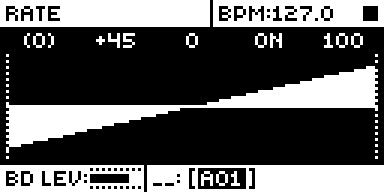
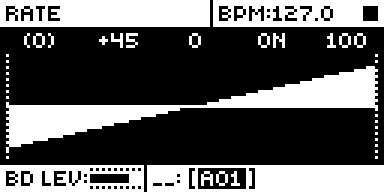
Improved SMPL 0.5.1: the sample preview plays at 1x again (#1591)
Stock's sample preview plays on the active track's voice with SMP in its
own slot 129 and FIN at rest; 0.5.0 read FIN at rest as RATE 0 and
stopped the voice. A voice whose SMP slot is 128 or above with FIN at
rest now plays at 1x. Reproduced and checked in rytm-emu; screenshots
retaken from this version.

diff --git a/sdk/analog-rytm-mkii/modules/sample-rate/TESTING.md b/sdk/analog-rytm-mkii/modules/sample-rate/TESTING.md
@@ -29,6 +29,17 @@ Everything below was observed in rytm-emu on the named build. Nothing has run on
 - A core-only image, same stock and core, for comparison.
 - Emulator: rytm-emu `c5732f0`, headless `dtboot`, JIT on. One generated sample, RAMP, 23,777 frames (odd, so STA and END fall on no round multiple), on BD with LOP ON. Audio is dtboot's `--wav`. Voice words are read with `DTBOOT_PEEK`: step at rec + 12, position at rec + 4, effective FIN at 0x8000f7cc. A click means a sample-to-sample step over 40, or six times the median, on a ramp whose normal step is below 2; each run also flags the trig's own attack, which is not counted.
 
+## 0.5.1: the sample preview plays at 1x (2026-11-16, issue #1591)
+
+rytm-emu, headless `dtboot`; emulator results are not hardware evidence.
+
+- Source (0.5.1-experimental): fingerprint `f1d4ef34…999e` (`evidence.sourceSha256`). Build SO01 (Modwerk base `3ece243b` + 0.5.0, the reproduction): `.syx` `7a9ca3fd…09e4`. Build SF01 (the same base + this source): ramSpare 91728. Build SV11 (vendored core-ar2 0.7 + this source, for the screenshots): `.syx` `bc153560…1035`. Stock OS 1.74 and the author's combo RC40 (`5d5241e0`, 0.5.0) for comparison.
+- Cause, read in stock's code: the sample preview (0x400a0dac, called from 0x400a5236 and 0x400e742e) fills a parameter override table that puts SMP in slot 129 and TUN and FIN at rest (0x4000) on the active track; 0.5.0 read FIN at rest as RATE 0 and scaled the step to 0.
+- Reproduction (rytm-emu-ramboot build, the card's RAMP in GLOBAL > SAMPLES > incoming, BD active, its sound saved by stock with FIN +0, FUNC held and YES): stock: voice 0's step went from 0x02000000 to 0x08000000 and its position advanced 0xdf a 100 M instructions; row FIN 0x4000, SMP 0x81. RC40 and SO01: step 0, position frozen, the preview silent. SF01: step 0x08000000 and the position advanced as on stock.
+- Normal play unchanged: RAMP in project slot 1 on BD, RATE set by CC 25 to 100 and then 64, BD pressed each time: SO01 and SF01 gave identical step, FIN and SMP words at every 100 M (playing at 100, stopped at 64).
+- Screenshots retaken on SV11 with 0.5.0's plans: the same screens, apart from where the playhead stood.
+- Not run: a Sound previewed from the SOUND BROWSER whose sample is not in the project (stock may also use slot 129 there; such a Sound would then preview at 1x only at RATE 0, by the code). Nothing of 0.5.1 has run on a unit yet.
+
 ## 0.5.0: one row of values over a taller waveform (2026-11-12)
 
 rytm-emu (`c5732f0`, RAMP on BD, LOP ON, RATE +63 by CC 25); emulator results are not hardware evidence. Nothing of 0.5.0 has run on a unit yet.

diff --git a/sdk/analog-rytm-mkii/modules/sample-rate/README.md b/sdk/analog-rytm-mkii/modules/sample-rate/README.md
@@ -67,6 +67,7 @@ RATE replaces FIN in the sample's pitch. TUN, the trig's note on a chromatic tra
 - RATE never goes above 1x by itself, as on the Octatrack. TUN does: stock's ceiling of about 4x either way stands, set by its 140-frame read window.
 - Below 0 the module swaps the effective STA and END before stock's prefetch reads them, so stock plays the sample backward. A change of direction on a looping voice waits until it is 32 frames clear of STA and END: about 0.7 ms at 1x, longer as RATE nears zero (53 ms at 1/64x). A trig does not wait.
 - With LOP OFF, once the sample has played out, changing RATE does not bring it back: trig again.
+- A sample previewed with FUNC + YES in a sample list plays at 1x, as on stock, whatever the track's RATE. Stock's preview plays on the active track's voice with the sample in its own slot (129, past the project's 127) and FIN at rest; the module plays a voice whose SMP slot is 128 or above with FIN at rest at 1x, so RATE 0 does not silence it. A project's slots are never above 127, so nothing else changes.
 - Scene and performance locks should reach RATE as they reached FIN; not run.
 - On stock OS, or a build without this mod, a saved sound plays FIN as FIN: by the code, RATE +63 is about a semitone sharp and RATE -64 a semitone flat.
 - MIDI CC 24 sets TUN in whole semitones and clears the cents, as stock's CC does. NRPN keeps them to 1/128 semitone.
@@ -84,4 +85,4 @@ Original code by Nathaniel Pavel (@npp1993), GPL-3.0-or-later ([LICENSE](LICENSE
 
 ## Screens and audio
 
-Screenshots are rytm-emu captures of build SR43 (0.4.0) ([media/capture.json](media/capture.json)). No audio preview yet.
+Screenshots are rytm-emu captures of build SV11 (0.5.1) ([media/capture.json](media/capture.json)). No audio preview yet.
